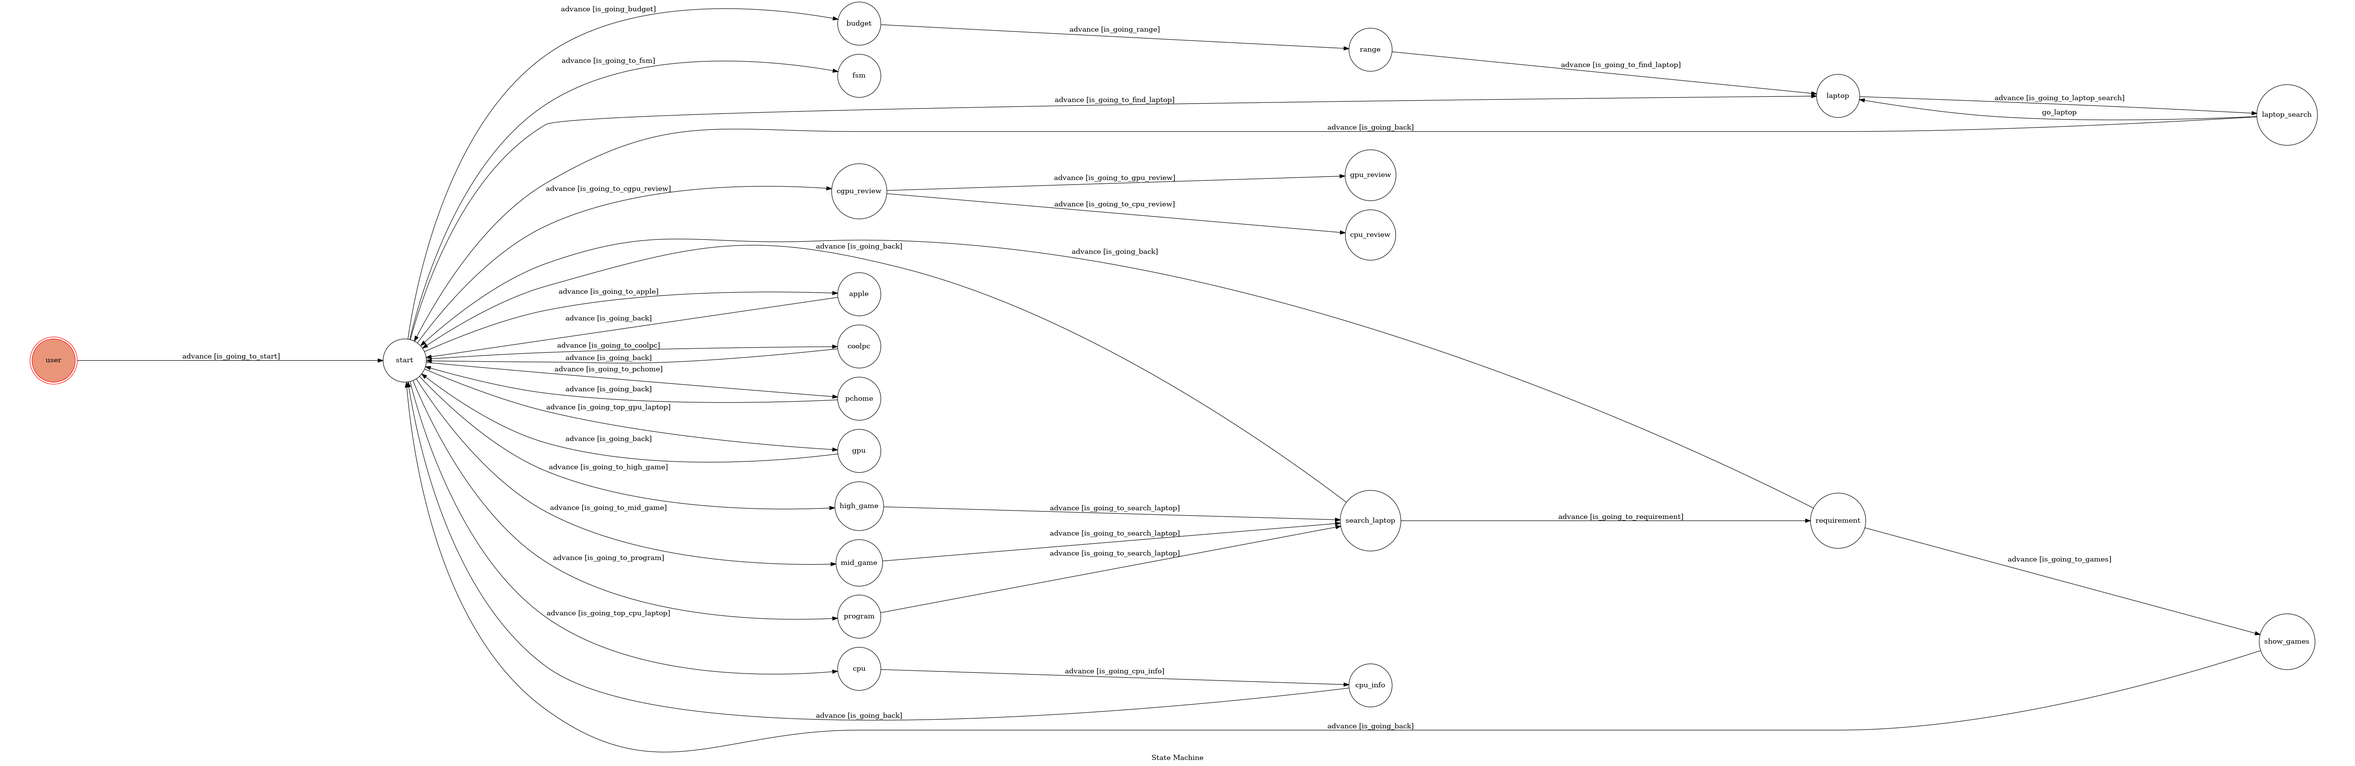
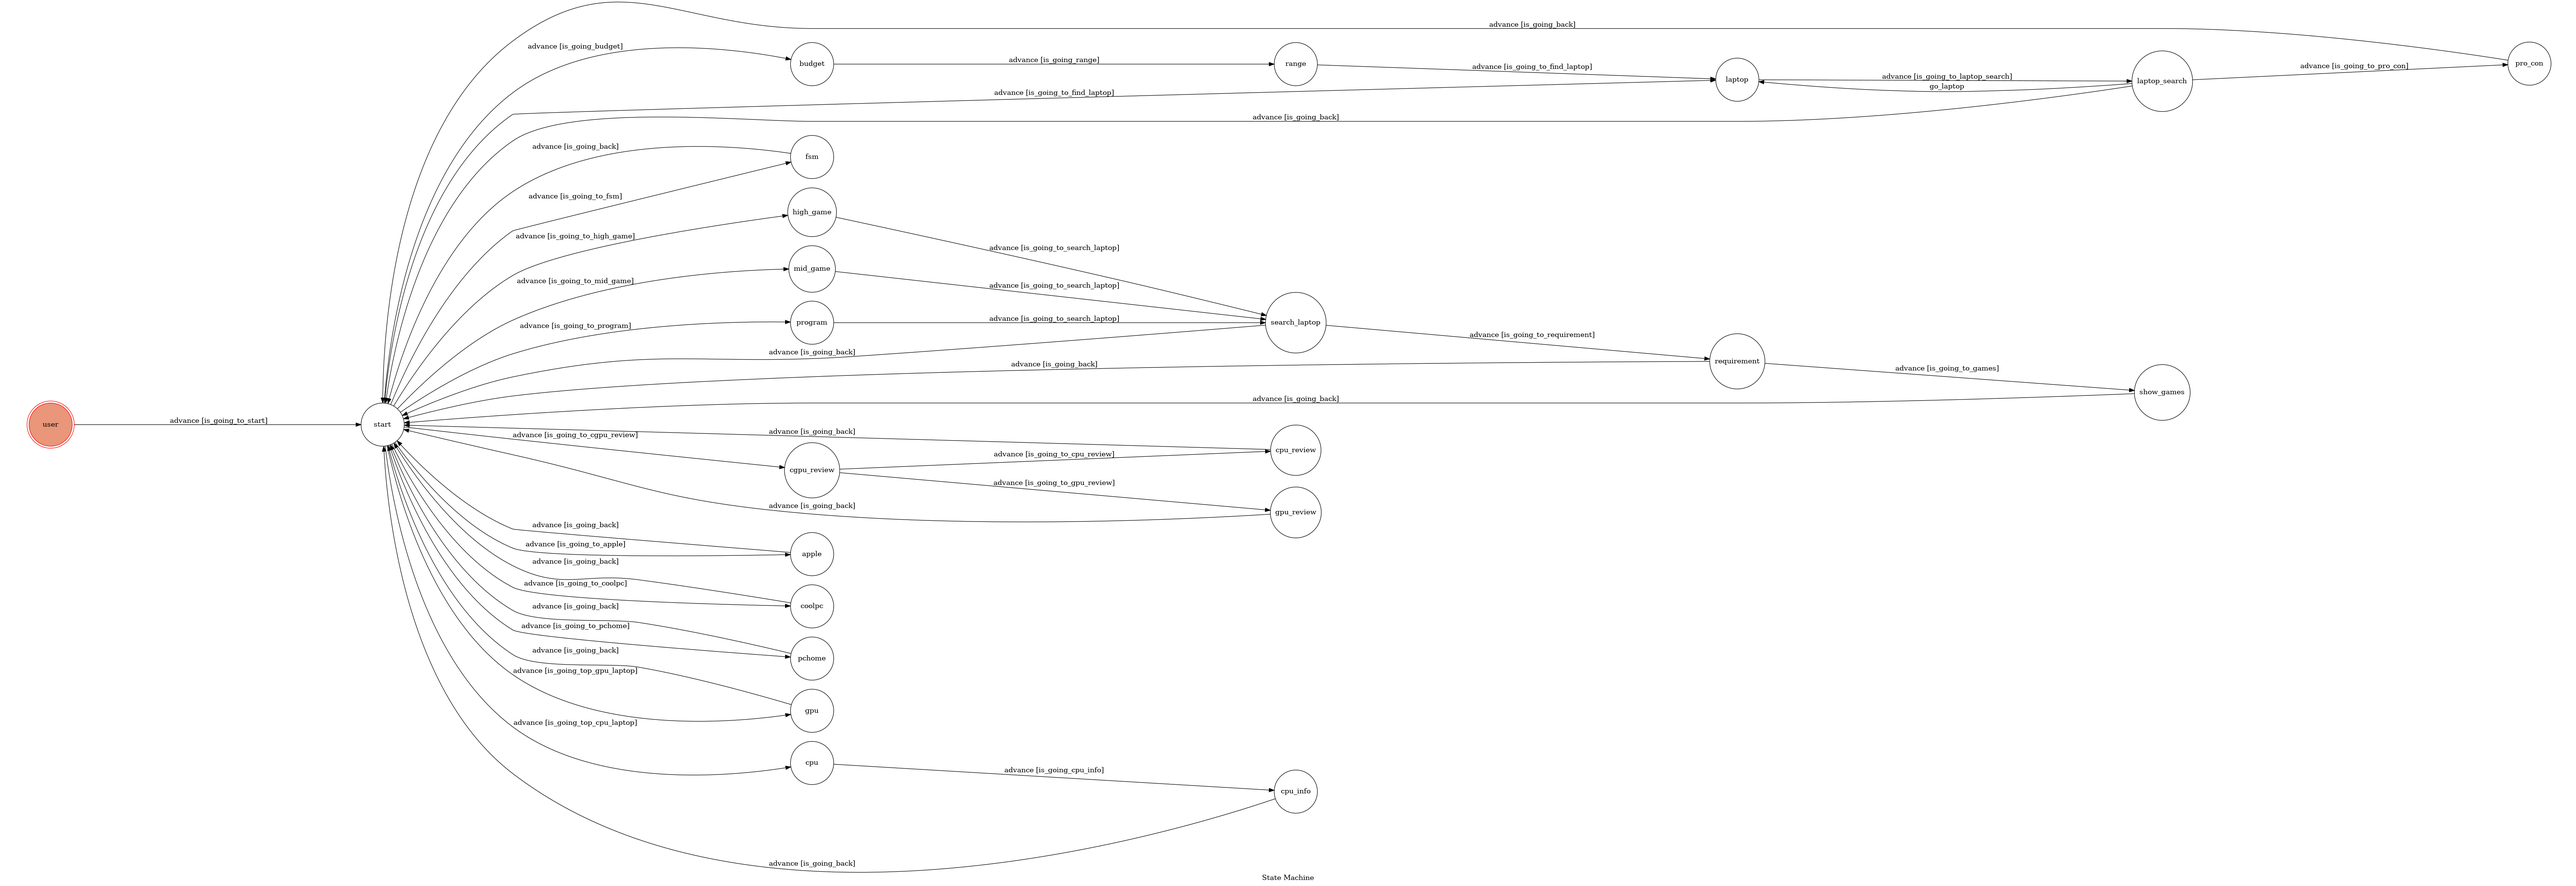
added pros and cons

diff --git a/fsm.py b/fsm.py
@@ -5,7 +5,7 @@ import requests
 from bs4 import BeautifulSoup
 import csv
 import os.path
-
+laptop =""
 class TocMachine(GraphMachine):
     def __init__(self, **machine_configs):
         self.machine = GraphMachine(model=self, **machine_configs)
@@ -65,6 +65,9 @@ class TocMachine(GraphMachine):
 
     def is_going_to_laptop_search(self,event):
         return True
+    def is_going_to_pro_con(self,event):
+        text = event.message.text
+        return text.lower() == "more"
     def is_going_to_requirement(self,event):
         text = event.message.text
         return text.lower() == "requirement"
@@ -83,6 +86,32 @@ class TocMachine(GraphMachine):
     def is_going_to_pchome(self,event): 
         text = event.message.text
         return text.lower() =="pchome_link"  
+    def on_enter_pro_con(self,event):
+        global laptop
+        page = requests.get(laptop)
+        print(laptop)
+        userid = event.source.user_id
+        reply_token = event.reply_token
+        soup = BeautifulSoup(page.content, 'html.parser')
+        pros = soup.find("div", {"class": "color-green plus-wrapper col-sm-6 col-xs-12"})
+        if pros:
+            pros = pros.find_all("li")
+            cons = soup.find("div", {"class": "color-red minus-wrapper col-sm-6 col-xs-12"})
+            cons = cons.find_all("li")
+            pros=[y.text for y in pros]
+            cons=[y.text for y in cons]
+            print(pros)
+            print(cons)
+            string = "Pros:\n"
+            string += "\n".join(pros)
+            string_2 = "Cons:\n"
+            string_2 += "\n".join(cons)
+            send_text_message(reply_token,string)
+            push_message(userid, string_2)
+        else:
+            send_text_message(reply_token,"No one has reviewed on this model")
+
+        
     def on_enter_show_games(self,event):
         text = event.message.text
         reply_token = event.reply_token
@@ -366,6 +395,9 @@ class TocMachine(GraphMachine):
            # print(string)
             send_image_url(reply_token,hello)
             push_message(userid,string)
+            push_message(userid,"enter more for Pros and Cons")
+            global laptop
+            laptop = new
         else:
            # print("false")
             push_message(userid,"laptop doesn't exists,please try again")

diff --git a/app.py b/app.py
@@ -14,7 +14,7 @@ load_dotenv()
 
 
 machine = TocMachine(
-    states=["user","start","requirement","show_games","budget","fsm","range","laptop","high_game","mid_game","cgpu_review","cpu_review","gpu_review","program","search_laptop","apple","coolpc","pchome","gpu","cpu","cpu_info","laptop_search"],
+    states=["user","start","requirement","show_games","pro_con","budget","fsm","range","laptop","high_game","mid_game","cgpu_review","cpu_review","gpu_review","program","search_laptop","apple","coolpc","pchome","gpu","cpu","cpu_info","laptop_search"],
     transitions=[
         {
             "trigger": "advance",
@@ -146,7 +146,13 @@ machine = TocMachine(
         },
          {
             "trigger": "advance",
-            "source": ["laptop_search","show_games","fsm","requirement","cpu_review","gpu_review","cpu_info","gpu","search_laptop","pchome","apple","coolpc"],
+            "source": "laptop_search",
+            "dest": "pro_con",
+            "conditions": "is_going_to_pro_con",
+        },
+         {
+            "trigger": "advance",
+            "source": ["laptop_search","show_games","pro_con","fsm","requirement","cpu_review","gpu_review","cpu_info","gpu","search_laptop","pchome","apple","coolpc"],
             "dest": "start",
             "conditions": "is_going_back",
         },
